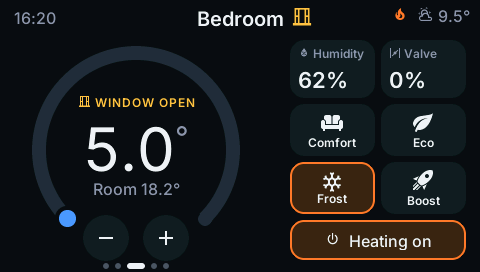
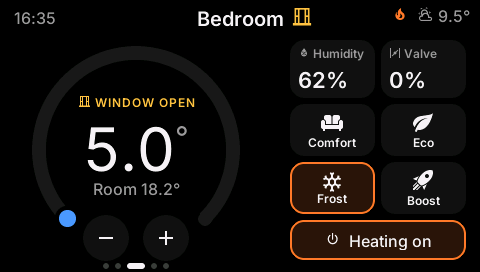
v0.3.3: black background, neutral greys for the JC4827W543 panel
The panel lifts and tints dark colours (navy cards showed bright teal),
which also made anti-aliased edges look stepped. New screenshots.

diff --git a/README.md b/README.md
@@ -2,7 +2,7 @@
 
 [![Release](https://img.shields.io/github/v/release/Boisti13/esp32-s3-thermostat?include_prereleases)](https://github.com/Boisti13/esp32-s3-thermostat/releases)
 [![License: MIT](https://img.shields.io/badge/license-MIT-blue.svg)](LICENSE)
-![Version](https://img.shields.io/badge/version-0.3.2-orange)
+![Version](https://img.shields.io/badge/version-0.3.3-orange)
 ![ESPHome](https://img.shields.io/badge/ESPHome-2026.9.1-black)
 ![LVGL](https://img.shields.io/badge/LVGL-9-green)
 

diff --git a/CHANGELOG.md b/CHANGELOG.md
@@ -1,5 +1,13 @@
 # Changelog
 
+## v0.3.3 — 2026-10-16
+
+### Changed
+
+- Black background and neutral greys. The panel stretches dark shades and
+  tints them teal: the old navy cards came out bright teal, and the uneven
+  dark tones made rounded corners and the dial look stair-stepped.
+
 ## v0.3.2 — 2026-10-16
 
 ### Fixed
